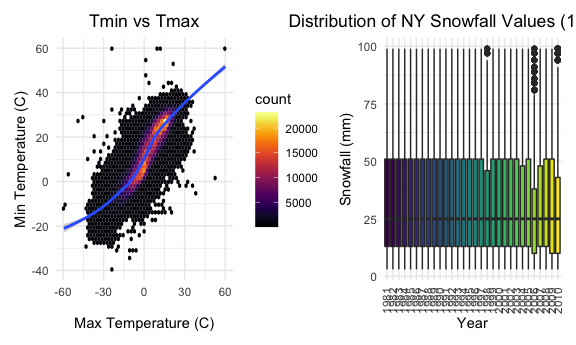
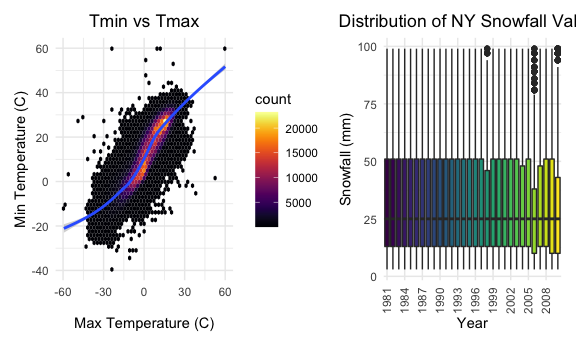
Updated Description of Boxplot

Changed region(s): [[0.6562, 0.8116, 1.0, 0.9275], [0.5, 0.029, 1.0, 0.087]]

diff --git a/Homework3_ac4635.md b/Homework3_ac4635.md
@@ -530,14 +530,16 @@ snowfall_plot =
   ggplot(aes(x = year, y = snow, fill = year)) +
   geom_boxplot() +
   labs(
-    title = "Distribution of NY Snowfall Values (1981-2010)",
+    title = "Distribution of NY Snowfall Values",
     x = "Year",
     y = "Snowfall (mm)") +
   theme(
     axis.text.x = element_text(angle=90, vjust=0.5, hjust=1),
     plot.title = element_text(hjust = 0.5),
-    legend.position = "none")
+    legend.position = "none") +
+  scale_x_discrete(breaks = seq(1981, 2010, 3)) 
 
+  
 tmin_tmax_plot + snowfall_plot
 ```
 
